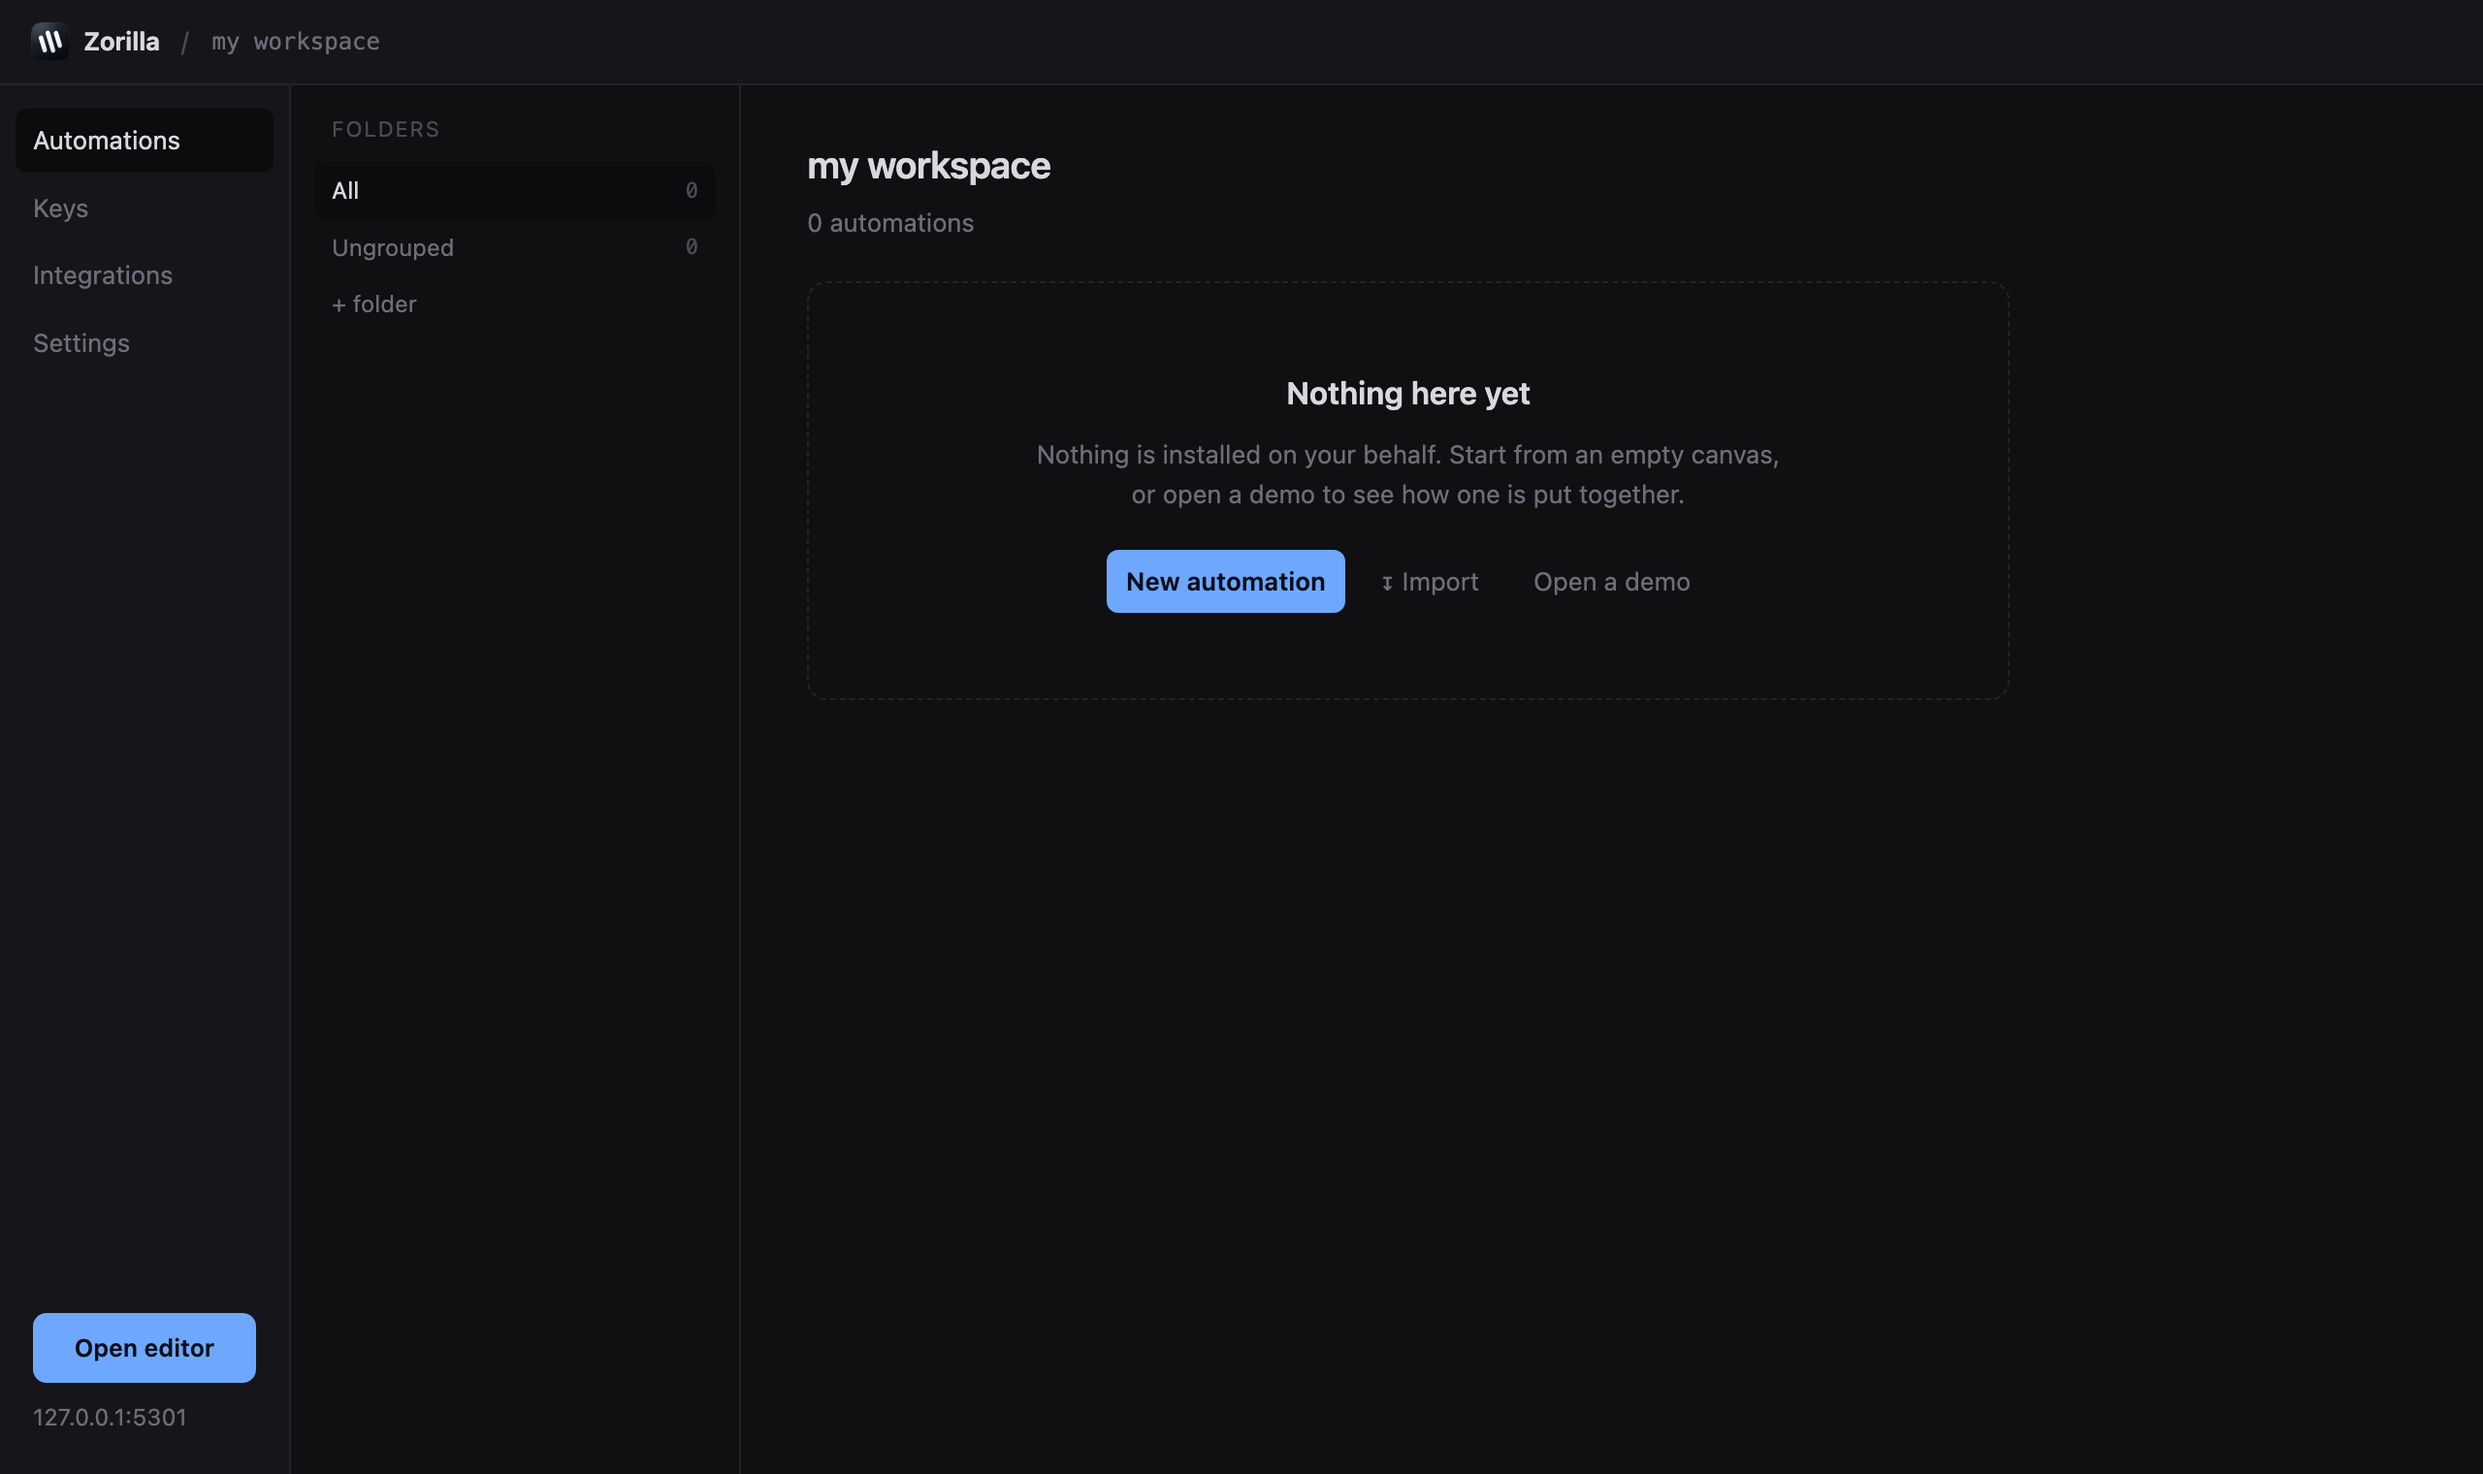
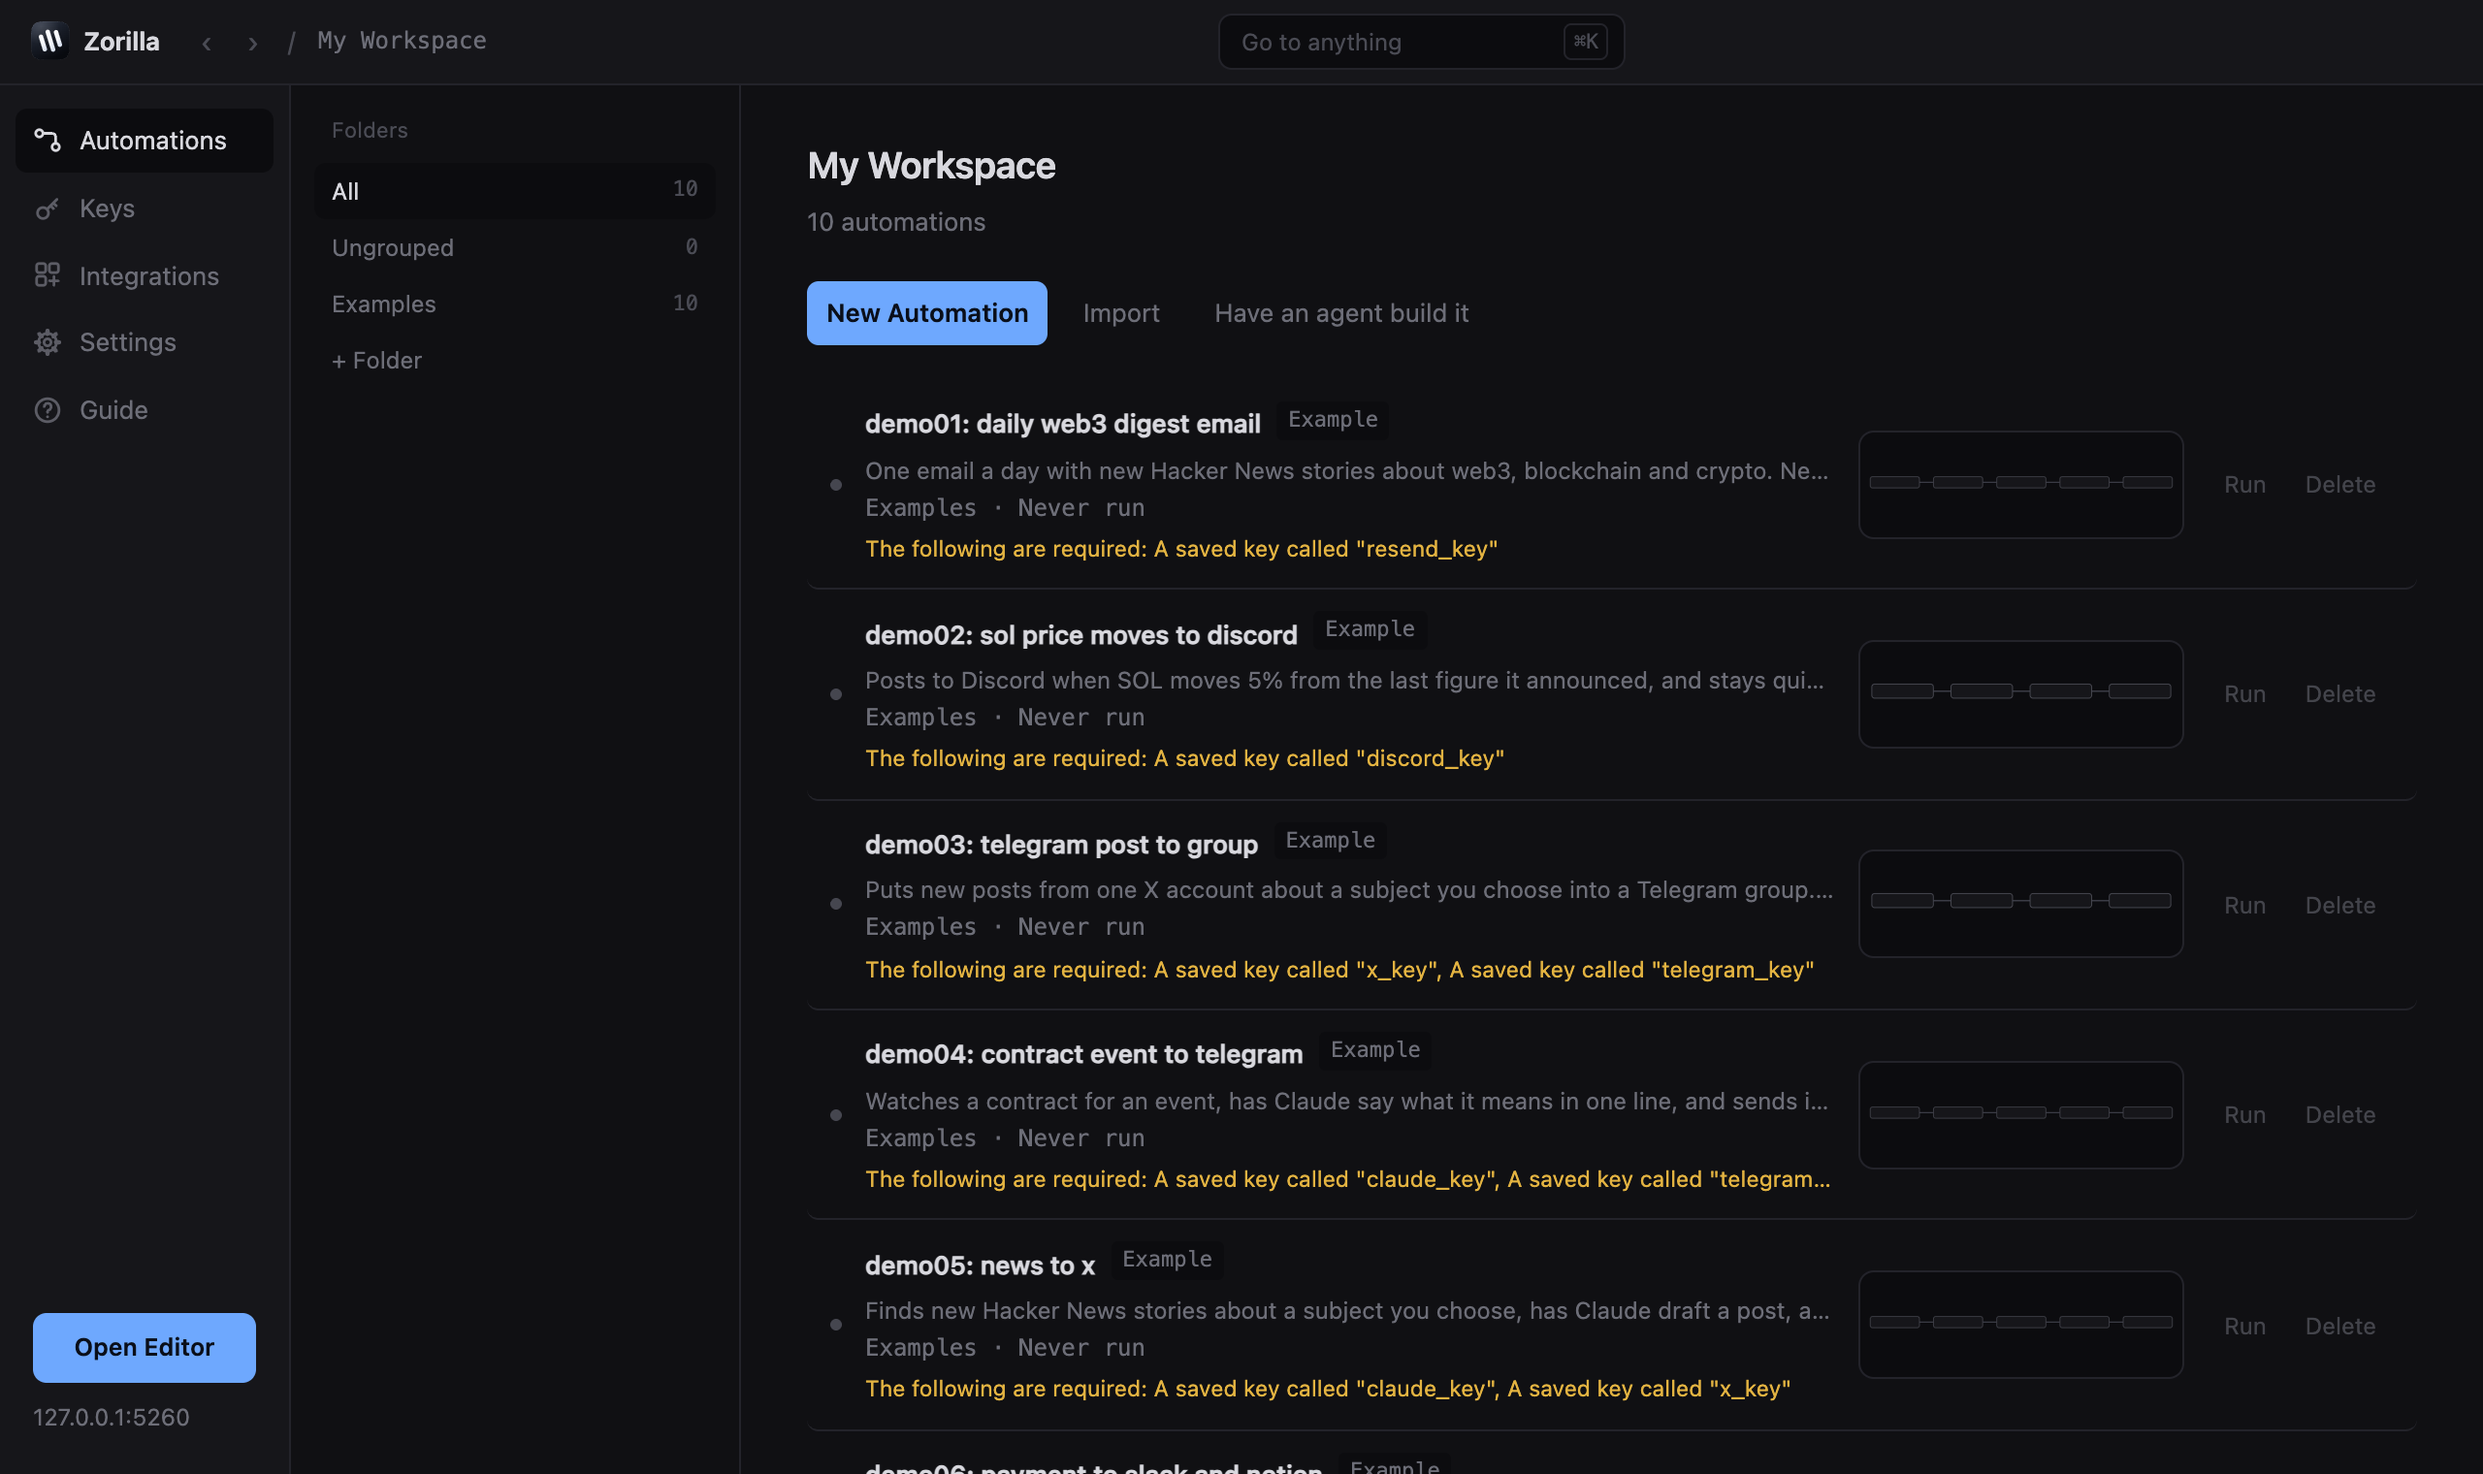
reshoot the walkthrough against a workspace that has the examples in it

diff --git a/app/docs/page.js b/app/docs/page.js
@@ -153,10 +153,10 @@ npm start`}</Command>
             </p>
             <Shot
               src="/guide/home.png"
-              alt="an empty Zorilla workspace"
+              alt="a Zorilla workspace with the Examples folder in it"
               spots={[
-                { n: 1, ...pct(6, 50, 144, 704), say: 'automations, keys, integrations, settings' },
-                { n: 2, ...pct(441, 283, 570, 33), say: 'start from nothing, bring in a file, or have an agent write it' },
+                { n: 1, ...pct(0, 44, 150, 716), say: 'automations, keys, integrations, settings' },
+                { n: 2, ...pct(416, 145, 830, 33), say: 'start from nothing, bring in a file, or have an agent write it' },
                 { n: 3, ...pct(17, 677, 115, 36), say: 'straight to the canvas' },
               ]}
             />
@@ -171,11 +171,11 @@ npm start`}</Command>
             </p>
             <Shot
               src="/guide/demos.png"
-              alt="the demos that came with Zorilla"
+              alt="the Examples folder, with the keyless demos marked Ready"
               spots={[
-                { n: 1, ...pct(592, 629, 57, 20), say: 'runs with nothing set up' },
-                { n: 2, ...pct(1183, 648, 51, 27), say: 'take it into your workspace' },
-                { n: 3, ...pct(428, 271, 743, 18), say: 'what the others need first' },
+                { n: 1, ...pct(716, 369, 57, 20), say: 'runs with nothing set up' },
+                { n: 2, ...pct(446, 371, 192, 21), say: 'open it' },
+                { n: 3, ...pct(446, 111, 500, 18), say: 'what the others need first' },
               ]}
             />
 
@@ -196,9 +196,9 @@ npm start`}</Command>
               src="/guide/keys.png"
               alt="the keys panel, with a saved Discord webhook"
               spots={[
-                { n: 1, ...pct(425, 152, 100, 39), say: 'the keys you have saved' },
-                { n: 2, ...pct(416, 323, 560, 244), say: 'pick the service' },
-                { n: 3, ...pct(416, 610, 560, 78), say: 'the name your functions will call it by' },
+                { n: 1, ...pct(425, 152, 93, 39), say: 'the keys you have saved' },
+                { n: 2, ...pct(416, 323, 560, 231), say: 'pick the service' },
+                { n: 3, ...pct(416, 597, 560, 78), say: 'the name your functions will call it by' },
               ]}
             />
 
@@ -217,8 +217,8 @@ npm start`}</Command>
               src="/guide/editor-palette.png"
               alt="the function list with Discord open"
               spots={[
-                { n: 1, ...pct(10, 322, 239, 36), say: 'a service, opened' },
-                { n: 2, ...pct(40, 384, 209, 36), say: 'one of its functions' },
+                { n: 1, ...pct(10, 355, 193, 36), say: 'a service, opened' },
+                { n: 2, ...pct(40, 417, 163, 36), say: 'one of its functions' },
               ]}
             />
 
@@ -239,9 +239,9 @@ npm start`}</Command>
               src="/guide/editor-step.png"
               alt="the settings panel for a Discord function"
               spots={[
-                { n: 1, ...pct(999, 213, 271, 75), say: 'which key it posts with' },
-                { n: 2, ...pct(999, 300, 271, 118), say: 'the message' },
-                { n: 3, ...pct(999, 553, 271, 53), say: 'what happens if it fails' },
+                { n: 1, ...pct(999, 281, 271, 75), say: 'which key it posts with' },
+                { n: 2, ...pct(999, 369, 271, 118), say: 'the message' },
+                { n: 3, ...pct(999, 622, 271, 53), say: 'what happens if it fails' },
               ]}
             />
 
@@ -261,9 +261,9 @@ npm start`}</Command>
               src="/guide/editor-run.png"
               alt="the editor with the run log open"
               spots={[
-                { n: 1, ...pct(999, 7, 79, 29), say: 'live, or only when you press run' },
-                { n: 2, ...pct(1223, 5, 45, 33), say: 'run it now' },
-                { n: 3, ...pct(0, 479, 1280, 43), say: 'every function, what it got and what it sent' },
+                { n: 1, ...pct(936, 8, 79, 26), say: 'live, or only when you press run' },
+                { n: 2, ...pct(1223, 8, 45, 28), say: 'run it now' },
+                { n: 3, ...pct(0, 531, 1280, 229), say: 'every function, what it got and what it sent' },
               ]}
             />
           </section>
